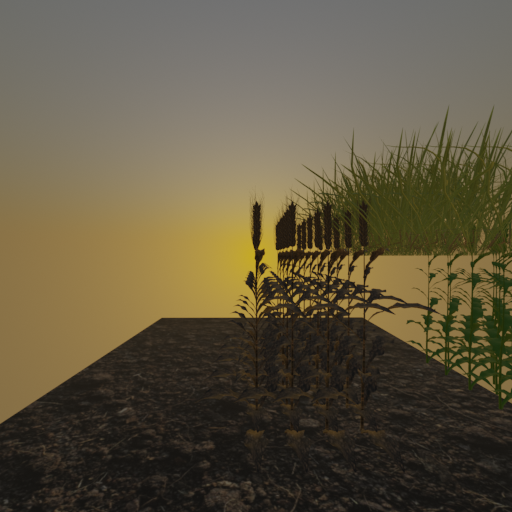
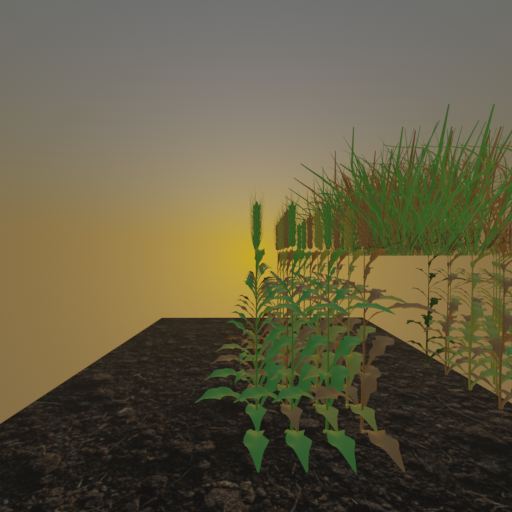
feat: add texture to crop

Changed region(s): [[0.375, 0.25, 1.0, 0.9375], [0.7812, 0.9062, 0.8125, 0.9375]]

diff --git a/src/controllers/crop_controller.py b/src/controllers/crop_controller.py
@@ -38,6 +38,11 @@ class CropController:
         except KeyError:
             self.generation_seed = None
         self.procedural_generation()
+        self.crop_health = {
+            "Healthy": (0.2, 0.8, 0.2, 1),   # Bright green in RGBA
+            "Slightly Unhealthy": (0.6, 0.8, 0.2, 1), # Yellow in RGBA
+            "Dead": (0.6, 0.4, 0.2, 1)       # Brown in RGBA
+        }
 
     def setup_crops(self):
         for obj in bpy.context.scene.objects:
@@ -94,6 +99,11 @@ class CropController:
 
             curr_loc += 1
             crop_model = self.add_crop(self.crop_size, self.growth_stage[self.type[curr_crop_type]], [loc_x, loc_y, loc_z])
+            
+            # Set crop health randomly (for demonstration purposes)
+            health_status = random.choice(["Healthy", "Dead", "Slightly Unhealthy"])
+            self.set_crop_health(crop_model, health_status)
+            
             if loc_x + 1 == self.row_widths:
                 loc_y += 1
                 loc_x = 0
@@ -177,26 +187,18 @@ class CropController:
             cube["segmentation_id"] = SegmentationClass.WEED.value
             return cube
 
-    def set_crop_health(self):
-        barley_stages = [obj for obj in bpy.data.objects if obj.name.startswith('stage10')]
-        for obj in barley_stages:
+    def set_crop_health(self, crop_object, health_status):
+        color = self.crop_health[health_status]
 
-            # Create a new material
-            material = bpy.data.materials.new(name="Barley_Material")
-            material.use_nodes = True
-            bsdf = material.node_tree.nodes["Principled BSDF"]
+        # Create a new material
+        material = bpy.data.materials.new(name=f"{health_status}_Material")
+        material.diffuse_color = color
+
+        # Assign it to object
+        if crop_object.data.materials:
+            # assign to 1st material slot
+            crop_object.data.materials[0] = material
+        else:
+            # no slots
+            crop_object.data.materials.append(material)
             
-            # Create a texture node and load the image
-            tex_image = material.node_tree.nodes.new('ShaderNodeTexImage')
-            tex_image.image = bpy.data.images.load("src/blender_assets/textures/textures/loam.png")
-
-            # Connect the texture node to the BSDF node
-            material.node_tree.links.new(bsdf.inputs['Base Color'], tex_image.outputs['Color'])
-
-            # Assign it to object
-            if obj.data.materials:
-                # assign to 1st material slot
-                obj.data.materials[0] = material
-            else:
-                # no slots
-                obj.data.materials.append(material)

diff --git a/src/launch.py b/src/launch.py
@@ -28,7 +28,6 @@ class TyperLaunchAPI:
         cropcon = CropController(config, collection)
         scenerender = SceneRenderer(config, collection)
         cropcon.setup_crops()
-        cropcon.set_crop_health()
 
 
         scenerender.render_scene()
